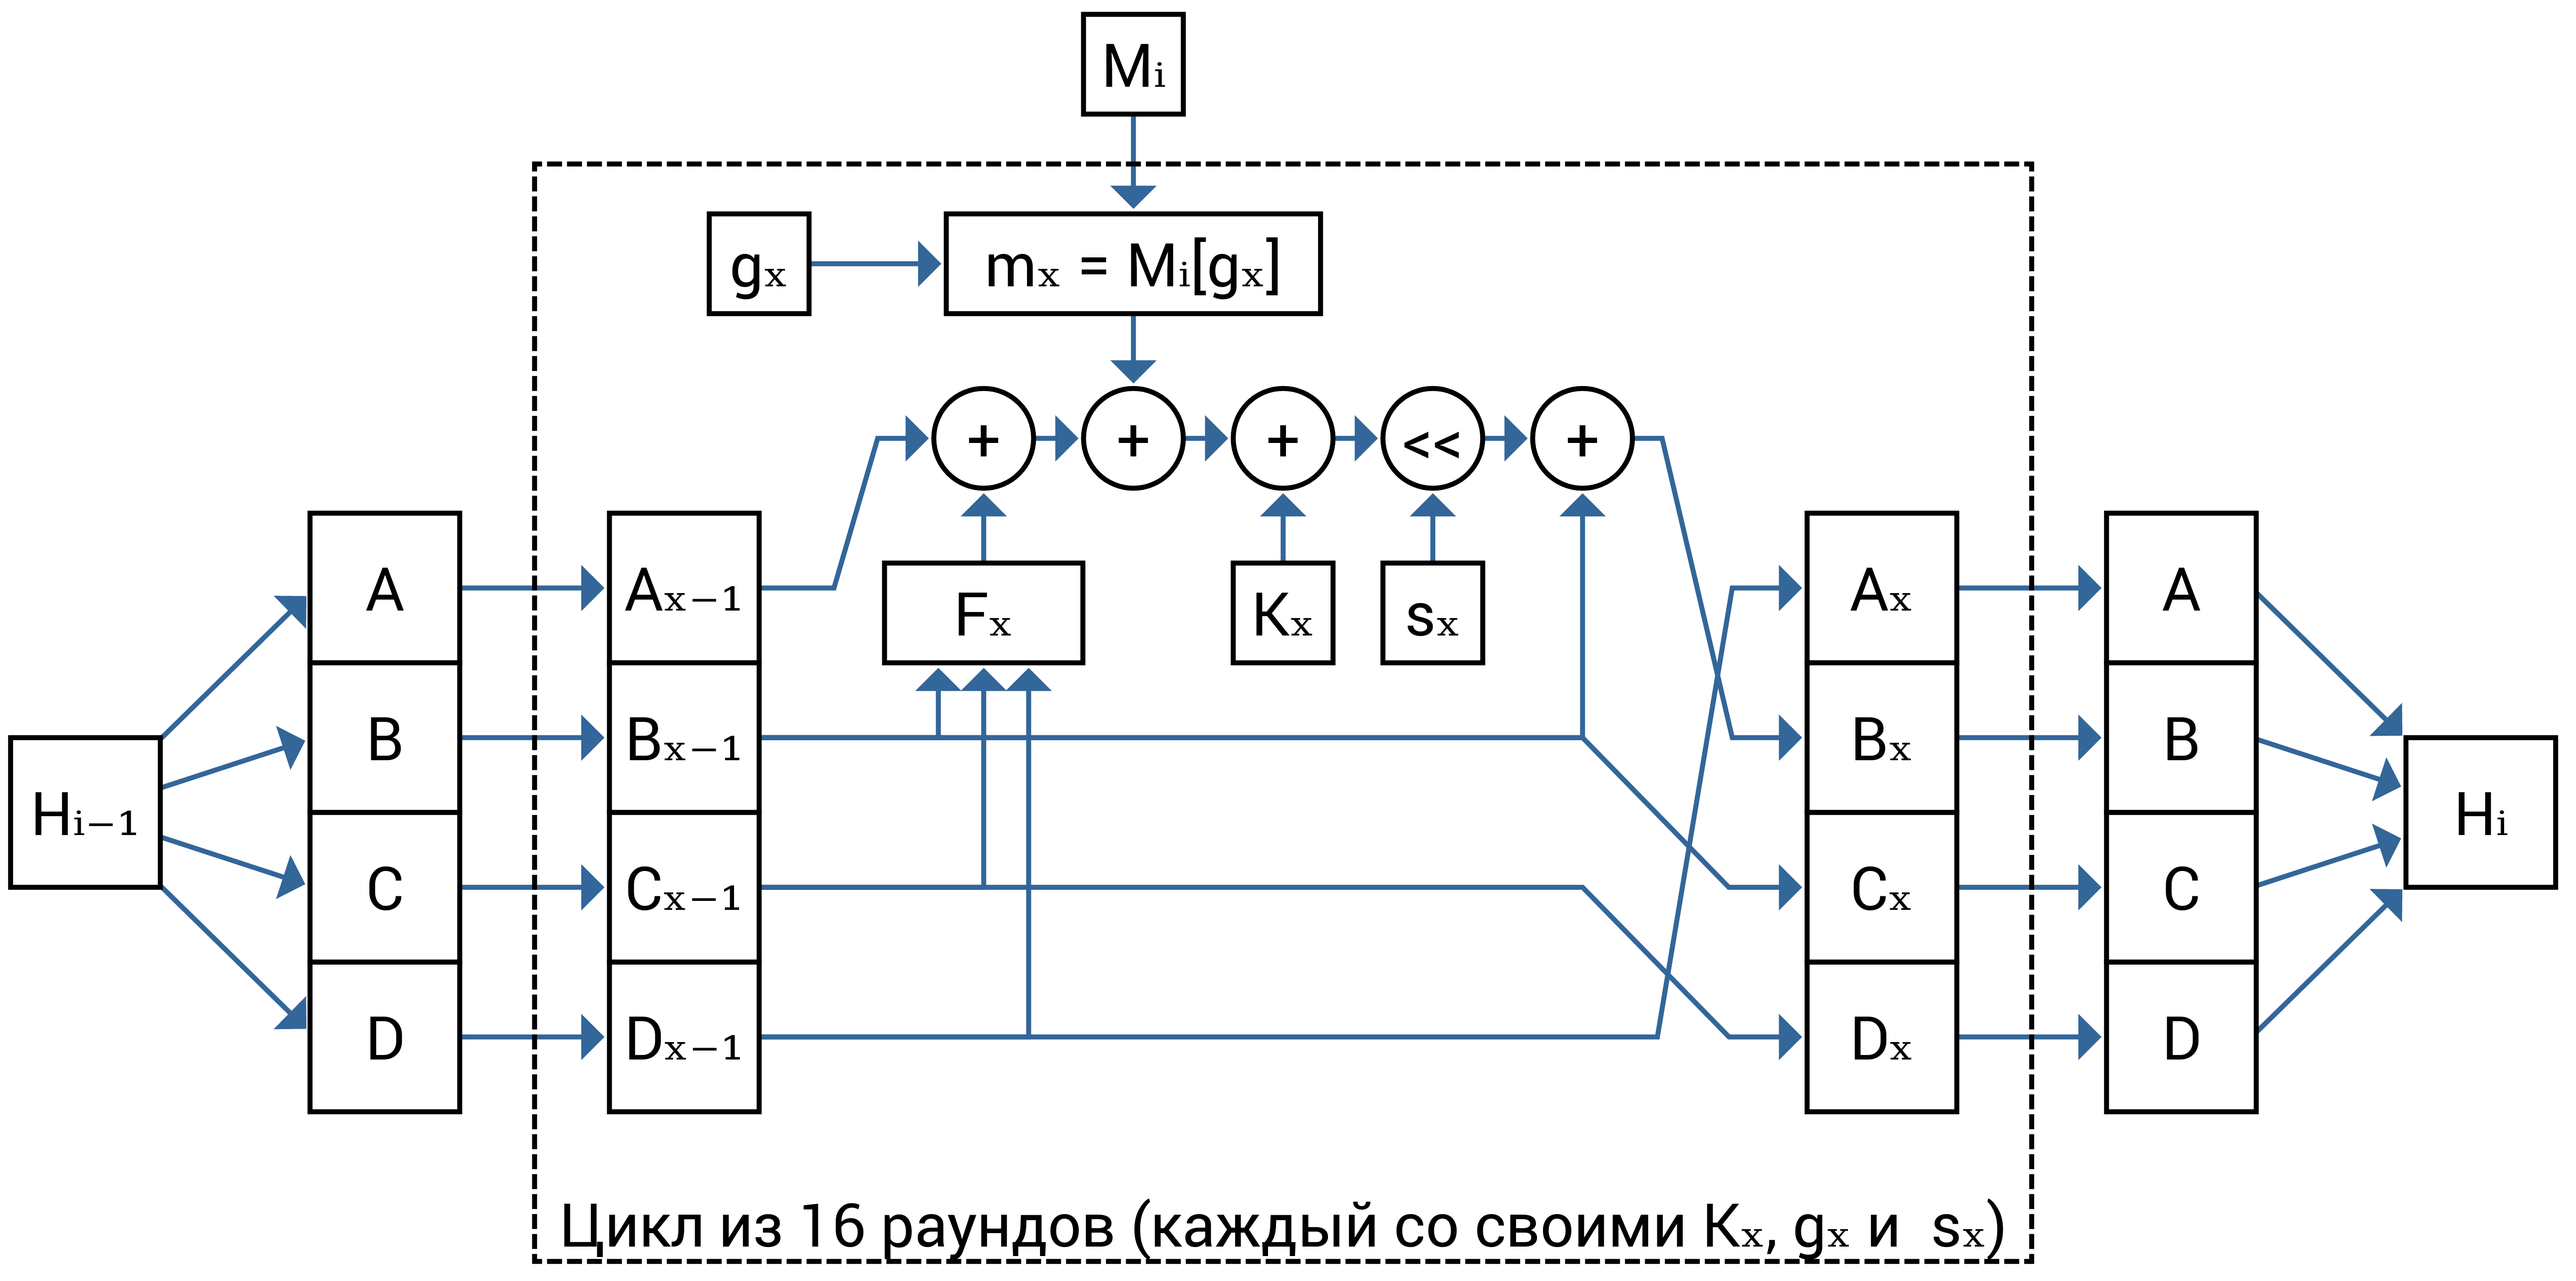
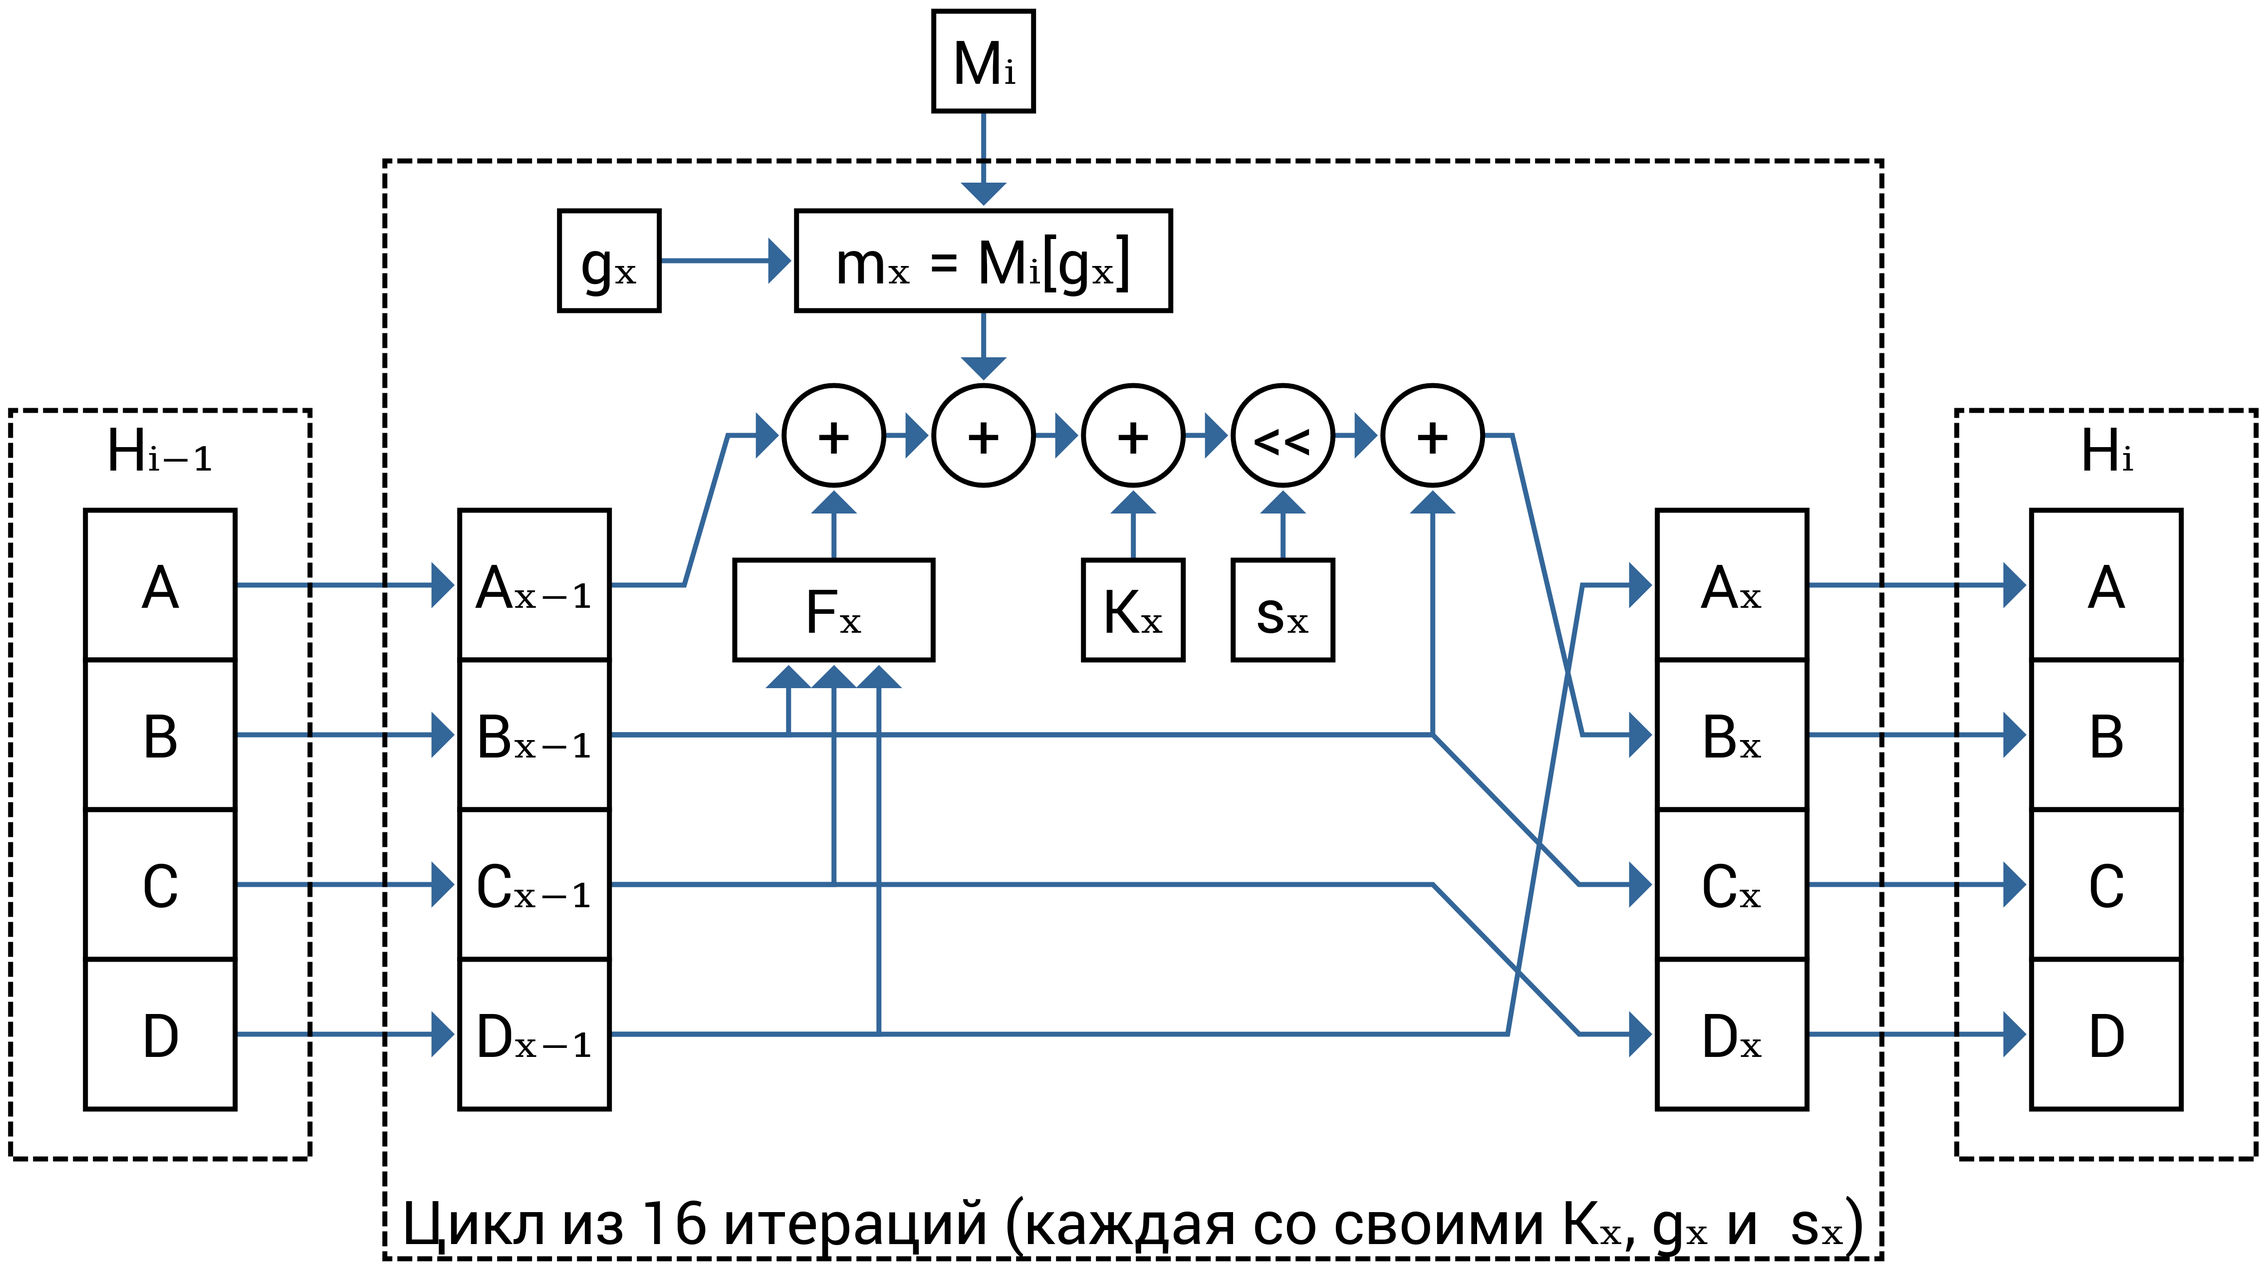
Расширение и уточнение раздела про MD5

diff --git a/hash-functions/MD5.tex b/hash-functions/MD5.tex
@@ -1,7 +1,7 @@
 \section{MD5}\index{хеш-функция!MD-5|(}
 \selectlanguage{russian}
 
-Одна из наиболее популярных в прошлом, но криптографически нестойкая хеш-функция MD5 (от \langen{message digest 5}), разработана Рональдом Ривестом (\langen{Ronald Linn Rivest}) в 1991 году как развитие хеш-функии MD4 и представлена как RFC 1321 в апреле 1992 года (\cite{rfc1321}).
+Одна из наиболее популярных в прошлом, но криптографически нестойкая в настоящий момент хеш-функция MD5 (от \langen{message digest 5}) разработана Рональдом Ривестом (\langen{Ronald Linn Rivest}) в 1991 году как развитие хеш-функии MD4\index{хеш-функция!MD-4} и представлена как RFC 1321 в апреле 1992 года (\cite{rfc1321}).
 
 MD5 разрабатывалась как криптографически-стойкая хеш-функция с длиной выходного блока 128 бит. Исходный текст сначала дополняется до целого числа обрабатываемых блоков по 512 бит (рис.~\ref{fig:md5-padding}).
 
@@ -38,9 +38,9 @@ D = \text{76} ~ \text{54} ~ \text{32} ~ \text{10}.\\
     \label{fig:md5-round}
 \end{figure}
 
-Каждый из этапов вычисления $H_i = f ( H_{i-1}, M_i )$ состоит из 16 раундов (рис.~\ref{fig:md5-round}), на котором выполняется преобразование четырёх 8-битовых блоков $A, B, C, D$. Основное преобразование выполняется с первым из блоков $A$ (который в конце раунда становится блоком $B$, и далее по кругу, что делает процедуру чем-то похожей на схему Фейстеля). К значению $A_{x-1}$ из результата предыдущего раунда (или предыдущего блока, если это первый раунд) прибавляется значение нелинейной функции $F(B, C, D)$, числовое значение некоторого байта из $M_i$ (индекс байта определяется константой $g_x$), значение раундового <<ключа>> $K_x$. Полученное значение сдвигается влево на количество бит, определяемое ещё одной константой раунда $s_x$, арифметически складывается со значением блока $B_{x-1}$ и считается новым значением блока $B_x$. Остальные блоки циклически сдвигаются без изменений ($B_{x-1} \to C_x$, $C_{x-1} \to D_x$, $D_{x-1} \to A_x$).
+Каждый из раундов вычисления $H_i = f ( H_{i-1}, M_i )$ состоит из 16 итераций (рис.~\ref{fig:md5-round}), в которых выполняется преобразование четырёх 8-битовых блоков $A, B, C, D$. Основное преобразование выполняется с первым из блоков $A$ (который в конце итерации становится блоком $B$, и далее по кругу, что делает процедуру чем-то похожей на схему Фейстеля). К значению $A_{x-1}$ из результата предыдущей итерации (или предыдущего раунда, если это первая итерация) прибавляется значение нелинейной функции $F(B, C, D)$, числовое значение некоторого байта из $M_i$ (индекс байта определяется константой $g_x$), значение <<ключа>> итерации $K_x$. Полученное значение сдвигается влево на количество бит, определяемое ещё одной константой итерации $s_x$, арифметически складывается со значением блока $B_{x-1}$ и считается новым значением блока $B_x$. Остальные блоки циклически сдвигаются без изменений ($B_{x-1} \to C_x$, $C_{x-1} \to D_x$, $D_{x-1} \to A_x$).
 
-Вид нелинейной функции $F$ и значения констант $g_x$, $K_x$, $s_x$ отличаются для каждого из 16 раундов и заданы в описании на хеш-функции. 
+Вид нелинейной функции $F$ и значения констант $g_x$, $K_x$, $s_x$ отличаются для каждой из 16 итераций и заданы в описании на хеш-функции. 
 
 Значения $A, B, C, D$ результата обработки самого последнего блока $M_i$ конкатенируются и считаются результатом вычисления хеш-функции.
 
@@ -51,6 +51,8 @@ D = \text{76} ~ \text{54} ~ \text{32} ~ \text{10}.\\
   \item Во-вторых, наличие некоторой функции преобразования $H_i = f ( H_{i-1}, M_i )$, которую можно рассматривать как фактически функцию шифрования некоторого блочного шифра. Но при этом в качестве шифруемого текста выступает результат хеширования предыдущего блока $H_{i-1}$, а блок исходного хешируемого сообщения $M_i$ выступает в качестве ключа шифрования. От стойкости данного шифра зависит возможность (при известных $H_{i-1}$ и $H_{i}$) восстановить <<ключ шифрования>>, то есть часть исходного сообщения, особенно если оно короткое (меньше одного блока, то есть фактически осуществить атаку на восстановление прообраза.
 \end{itemize}
 
-В будущем подобный подход будет формализован более явно, в том числе с помощью описания конструкций Меркла~---~Дамгарда и Миагучи~---~Пренеля (см. раздел~\ref{section-stribog} про хеш-функцию <<Стрибог>>).
+В 1996 году Ханс Доббертин нашёл коллизии в модификации MD5, которая отличалась от оригинальной только изменением инициализирующих значений $A, B, C, D$, что явно показало наличие уязвимости в дизайне хеш-функции. В 2004 году было объявлено о существовании алгоритма нахождения коллизий к оригинальной хеш-функции с помощью суперкомпьютера, в 2005 году был опубликован подобный алгоритм с примером коллизии, а в 2006 году исследователь из Чехии Властимил Клима представил алгоритм для обычного персонального компьютера с возможностью использования любых начальных значений $A, B, C, D$ (\cite{Wang:Feng:Lai:Yu:2004, WangYu:2005, Klima:2006}).
+
+В настоящий момент данная хеш-функция считается криптографически нестойкой, но ранее она широко использовалась для обеспечения защиты информации, например для хеширования паролей в некоторых версиях Linux и FreeBSD, для генерации имитовставки HMAC-MD5, для проверки целостности файлов и прочих целей. Большое количество стандартных библиотек времени исполнения, систем управления базами данных и даже программ обработки электронных таблиц содержат встроенные функции для вычисления значений хеш-функции MD5.
 
 \index{хеш-функция!MD-5|)}
